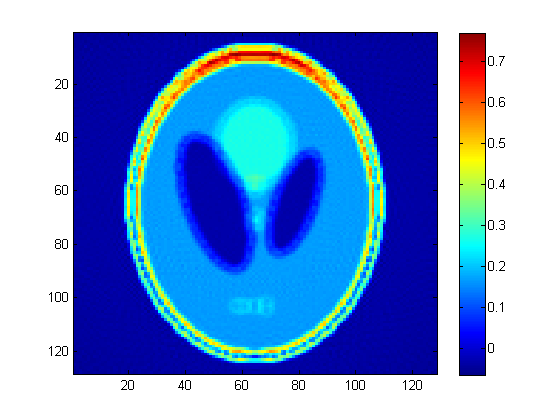
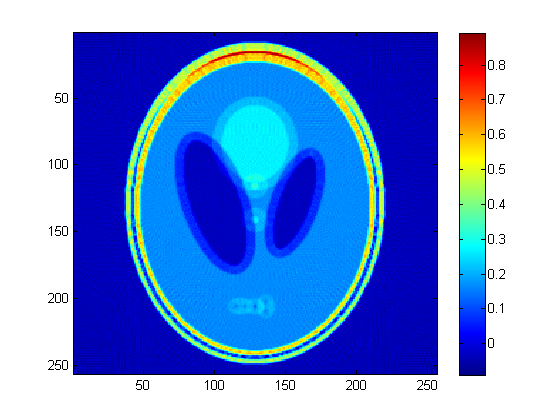
Updated code for part 2

diff --git a/2/code/myFilterShepLogan.m b/2/code/myFilterShepLogan.m
@@ -1,4 +1,4 @@
-function y = myFilterShepLogan(Image)
+function y = myFilterShepLogan(Image,wmax)
 
 N=size(Image,1);
 theta = 0:179;
@@ -7,9 +7,8 @@ N_theta = length(theta);
 
 N1 = length(xp);
 freqs=linspace(-1, 1, N1).';
-wmax=2*pi;
 %shepp logan filter
-my_filter = arrayfun(@(x) sinc(x*05*pi/wmax)*abs(x),freqs); % shep logan
+my_filter = arrayfun(@(x) shepplogan(x,wmax),freqs); % shep logan
 my_filter = repmat(my_filter, [1 N_theta]);
 % apply fft in one dimension and use fftshift to bring 0 frequency to
 % center
@@ -36,4 +35,10 @@ colormap(gray(256)); axis image;
 
 y = I1;
 
+function y = shepplogan(x,wmax)
+    if abs(x) > wmax
+      y =  0;
+    else
+       y= sinc(x*05*pi/wmax)*abs(x);
 
+   end

diff --git a/2/code/myFilterCosineFilter.m b/2/code/myFilterCosineFilter.m
@@ -1,4 +1,4 @@
-function y = myFilterCosineFilter(Image)
+function y = myFilterCosineFilter(Image,wmax)
 
 
 N=size(Image,1);
@@ -9,8 +9,7 @@ N_theta = length(theta);
 N1 = length(xp);
 freqs=linspace(-1, 1, N1).';
 %cosine filter
-wmax= pi
-my_filter = arrayfun(@(x) cos(x*05*pi/wmax)*abs(x),freqs);
+my_filter = arrayfun(@(x) cosine(x,wmax),freqs);
 my_filter = repmat(my_filter, [1 N_theta]);
 % apply fft in one dimension and use fftshift to bring 0 frequency to
 % center
@@ -37,3 +36,10 @@ colormap(gray(256)); axis image;
 
 y = I1;
 
+function y = cosine(x,wmax)
+    if abs(x) > wmax
+      y =  0;
+    else
+       y= cos(x*05*pi/wmax)*abs(x);
+
+   end
